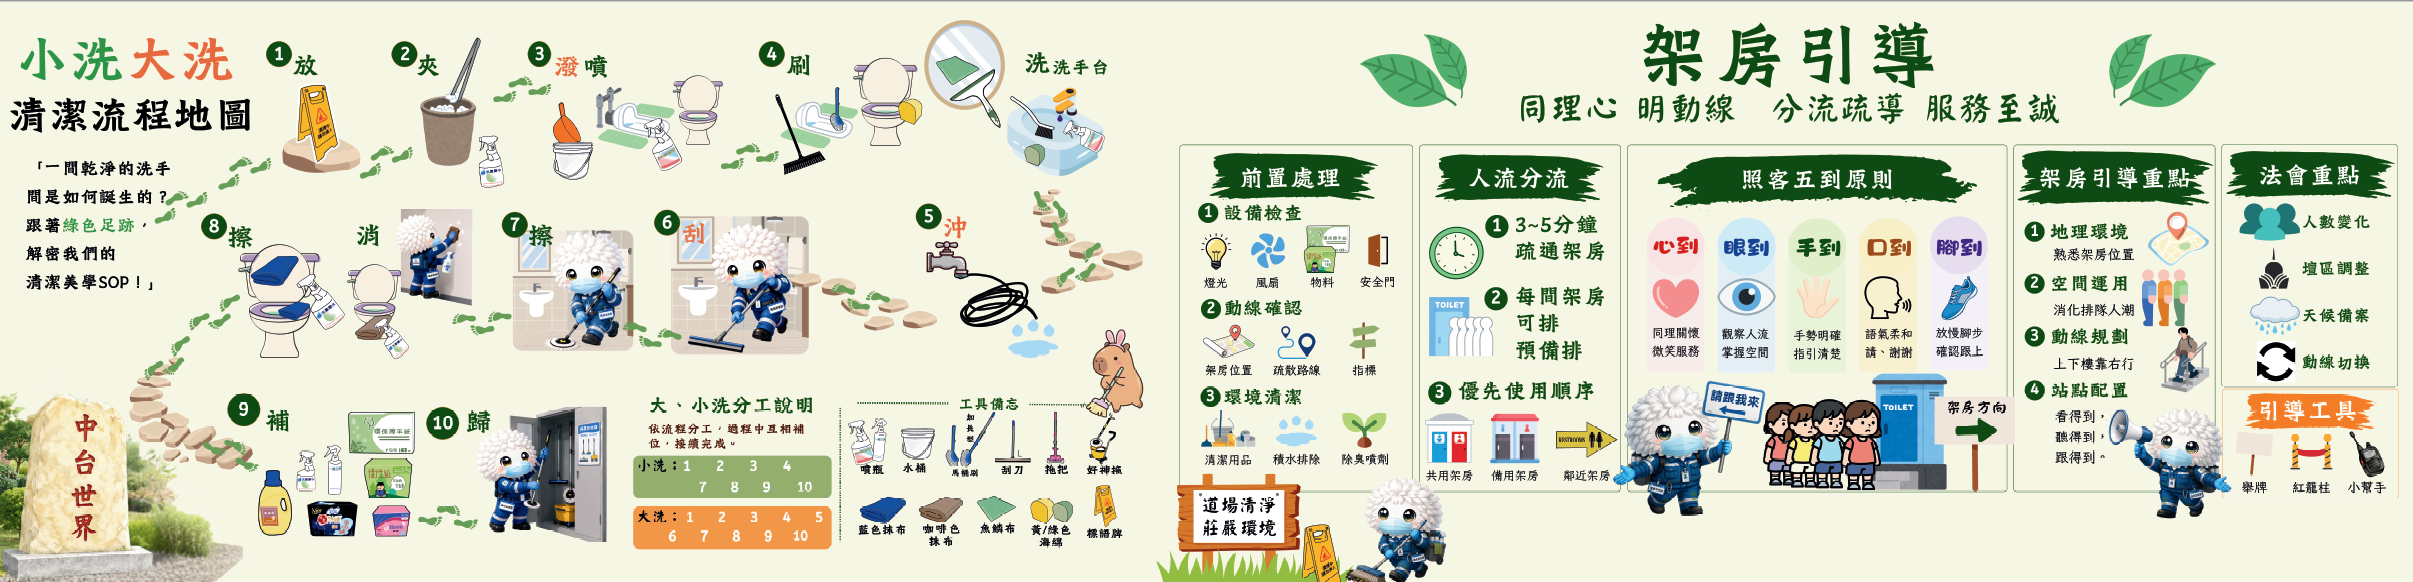
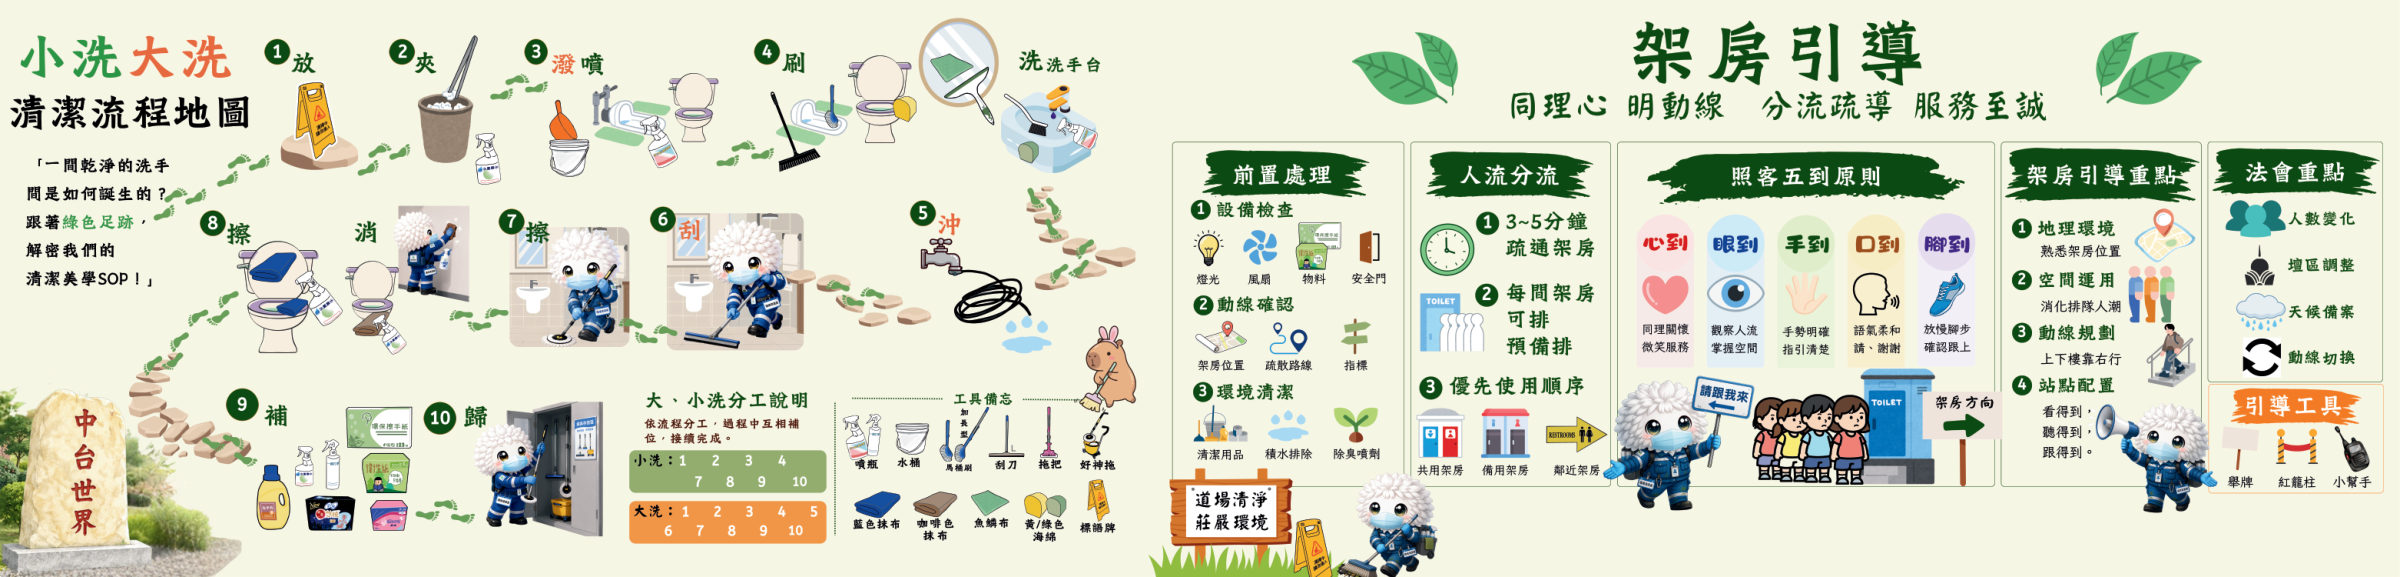
Add files via upload

diff --git a/index.html b/index.html
@@ -3,14 +3,14 @@
 <head>
 <meta charset="UTF-8">
 <meta name="viewport" content="width=device-width, initial-scale=1, viewport-fit=cover">
-<title>護法博覽會虛擬展廳</title>
+<title>清淨會博覽會虛擬展廳</title>
 <link rel="stylesheet" href="css/styles.css">
 </head>
 <body>
 
 <div id="home-view">
   <header class="page-header">
-    <h1 id="site-title">護法博覽會虛擬展廳</h1>
+    <h1 id="site-title">清淨會博覽會虛擬展廳</h1>
     <p>點選展板，邊聽介紹邊看展板內容</p>
   </header>
   <div id="board-grid" class="board-grid">

diff --git a/README.md b/README.md
@@ -1,4 +1,4 @@
-# 護法博覽會虛擬展廳 — 使用說明
+# 清淨會博覽會虛擬展廳 — 使用說明
 
 給傳乂看的白話版操作手冊。網站本體已經做好，這份文件說明「怎麼把它變成一個大家掃得到的網址」。
 
@@ -59,7 +59,7 @@ window.SITE_CONFIG = {
 後台要能「存檔」，需要一組 GitHub 的通行證（Token）。申請步驟：
 
 1. 登入 GitHub，右上角頭像 → `Settings`
-2. 左側選單最下面找到 `Developer settings`
+2. 左側選單最下面找到 `Developer settings`（找不到的話，直接開這個網址跳過選單：https://github.com/settings/personal-access-tokens/new）
 3. 選 `Personal access tokens` → `Fine-grained tokens` → `Generate new token`
 4. 設定：
    - Token name：隨便取，例如 `ctcm-admin`
@@ -90,6 +90,22 @@ window.SITE_CONFIG = {
 ## 步驟五：QR code
 
 網站上線、確認可以正常打開後，把前台網址（`https://你的帳號.github.io/ctcm-exhibition/`）拿去產生 QR code 即可（Canva、線上 QR code 產生器都可以）。
+
+---
+
+## 常見問題
+
+**Token 忘記存哪裡、找不到了怎麼辦？**
+GitHub 基於安全考量，Token 只會在申請當下顯示一次，之後連 GitHub 自己都查不回來，只能回到「步驟四」重新申請一組新的。舊的那組不用管它，過期或想保險一點可以到申請頁面把它刪掉（Delete / Revoke）。
+
+**後台存檔時出現「Resource not accessible by personal access token」？**
+代表這組 Token 的權限不夠（可能只有讀取、沒有寫入），修正方式：
+1. 回到 GitHub → `Settings` → `Developer settings` → `Personal access tokens` → `Fine-grained tokens`
+2. 找到剛才那組 Token，檢查：
+   - `Repository access` 有沒有勾到 `ctcm-exhibition`
+   - `Permissions` → `Contents` 有沒有設成 `Read and write`（預設是 No access，很容易漏掉）
+3. 如果編輯不了，直接刪掉重建一組，記得這次 Contents 要選 `Read and write`
+4. 到 `admin.html` 按「登出」清掉舊的，貼新 Token 重新登入
 
 ---
 
